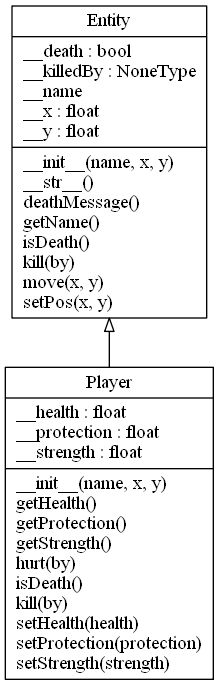
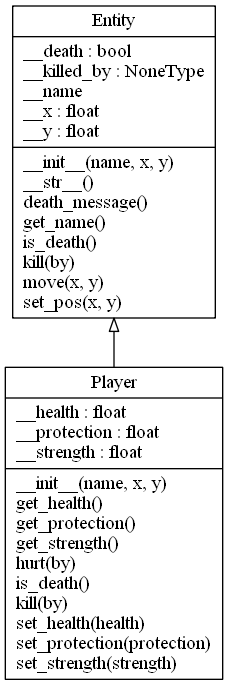
Práctica 2 - Correcciones de nomenclatura y diagrama UML

diff --git a/Ago-Dic-2020/aguirre-juarez-david/practica-2/practica-2.py b/Ago-Dic-2020/aguirre-juarez-david/practica-2/practica-2.py
@@ -5,19 +5,21 @@ class Entity:
 		self.__x = x
 		self.__y = y
 		self.__death = False
-		self.__killedBy = None
+		self.__killed_by = None
 
 	def __str__(self):
-		return f"{self.getName()} {('with live' if not self.isDeath() else self.deathMessage())}, position: <{self.__x},{self.__y}>"
+		return f"{self.get_name()} {('with live' if not self.is_death() else self.death_message())}, position: <{self.__x},{self.__y}>"
 
-	def deathMessage(self):
-		if self.__death:
-			if isinstance(self.__killedBy, Entity):
-				return f'killed by {self.__killedBy.getName()}'
-			return 'killed'
-		return ''
+	def death_message(self):
+		if not self.__death:
+			return ''
 
-	def setPos(self, x, y):
+		if isinstance(self.__killed_by, Entity):
+			return f'killed by {self.__killed_by.get_name()}'
+
+		return 'killed'
+
+	def set_pos(self, x, y):
 		self.__x = x
 		self.__y = y
 
@@ -25,14 +27,14 @@ class Entity:
 		self.__x += x
 		self.__y += y
 
-	def isDeath(self):
+	def is_death(self):
 		return self.__death
 
 	def kill(self, by):
 		self.__death = True
-		self.__killedBy = by
+		self.__killed_by = by
 
-	def getName(self):
+	def get_name(self):
 		return self.__name
 
 class Player(Entity):
@@ -46,33 +48,33 @@ class Player(Entity):
 		super().kill(by)
 		self.__health = 0.0
 
-	def isDeath(self):
+	def is_death(self):
 		if self.__health <= 0.0:
 			self.kill()
 
-		return super().isDeath()
+		return super().is_death()
 
 
 	def hurt(self, by):
 		if(isinstance(by, Player)):
 			self.__health -= (1 - self.__protection) * abs(by.__strength)
-			self.isDeath()
+			self.is_death()
 
-	def setHealth(self, health):
+	def set_health(self, health):
 		self.__health = health
-		self.isDeath()
+		self.is_death()
 
-	def getHealth(self):
+	def get_health(self):
 		return self.__health
 
-	def setProtection(self, protection):
+	def set_protection(self, protection):
 		self.__protection = abs(protection) % 1
 
-	def getProtection(self):
+	def get_protection(self):
 		return self.__protection
 
-	def setStrength(self, strength):
+	def set_strength(self, strength):
 		self.__strength = abs(strength)
 
-	def getStrength(self):
+	def get_strength(self):
 		return self.__strength
